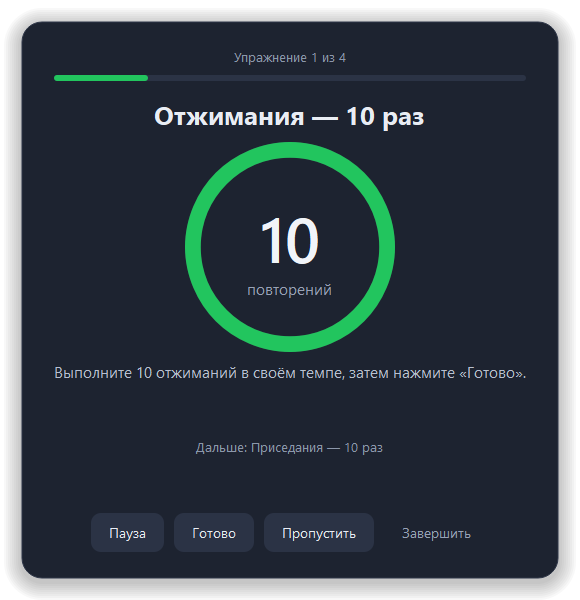
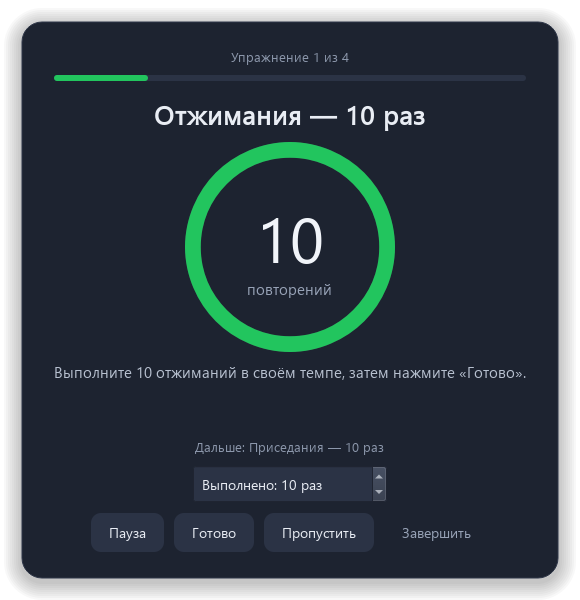
Website for Razminka 1.2.8

diff --git a/docs/index.html b/docs/index.html
@@ -1,77 +1,27 @@
-<!doctype html>
+<!doctype html>
 <html lang="ru">
 <head>
-  <meta charset="utf-8">
-  <meta name="viewport" content="width=device-width, initial-scale=1">
-  <meta name="description" content="Разминка — бесплатные напоминания о движении для Windows. Упражнения по таймеру и повторениям, свои тренировки, переносимая версия и автообновления.">
-  <meta name="theme-color" content="#eaf2fb">
-  <title>Разминка — пора встать из-за стола</title>
-  <link rel="icon" href="assets/icon.png">
-  <link rel="stylesheet" href="style.css">
-  <script src="app.js" defer></script>
+<meta charset="utf-8"><meta name="viewport" content="width=device-width,initial-scale=1">
+<meta name="description" content="Разминка напоминает отойти от компьютера. Выбирайте упражнения, создавайте свои тренировки и смотрите результаты. Бесплатно для Windows.">
+<meta name="theme-color" content="#eef4f2"><title>Разминка — сделайте небольшой перерыв</title>
+<link rel="icon" href="assets/icon.png"><link rel="stylesheet" href="style.css"><script src="app.js" defer></script>
 </head>
 <body>
 <a class="skip" href="#main">Перейти к содержимому</a>
-<header class="wrap">
-  <a class="brand" href="#"><img src="assets/icon.png" width="38" height="38" alt="">Разминка</a>
-  <nav aria-label="Главное меню"><a href="#features">Возможности</a><a href="#screens">Скриншоты</a><a href="#download">Скачать</a></nav>
-</header>
+<header class="wrap"><a class="brand" href="#"><img src="assets/icon.png" width="40" height="40" alt="">Разминка</a><nav aria-label="Главное меню"><a href="#workouts">Тренировки</a><a href="#history">История</a><a href="#download">Скачать</a></nav></header>
 <main id="main">
-  <section class="hero wrap">
-    <div class="intro">
-      <p class="availability">Бесплатное приложение для Windows</p>
-      <h1>Засиделись?<br>Пора размяться.</h1>
-      <p class="lead">За работой легко не заметить, как прошёл час. Разминка напомнит сделать перерыв и покажет упражнения — вам останется встать из-за стола и начать.</p>
-      <a class="button primary" href="#download">Скачать для Windows</a>
-      <p class="quiet">Бесплатно. Без регистрации. Есть версия без установки.</p>
-    </div>
-    <figure class="hero-shot">
-      <img src="assets/reminder.png" width="580" height="600" alt="Напоминание «Пора размяться» с кнопками начала, отсрочки и пропуска">
-      <figcaption>Если сейчас неудобно, напоминание можно отложить.</figcaption>
-    </figure>
-  </section>
-  <div class="rhythm"><div class="wrap"><span>Поработать</span><i aria-hidden="true"></i><span>Размяться</span><i aria-hidden="true"></i><span>Продолжить</span></div></div>
-  <section id="features" class="wrap features">
-    <h2>Как работает<br>Разминка</h2>
-    <div class="feature-list">
-      <article><h3>Учитывает время за компьютером</h3><p>Если вы надолго отошли, заблокировали экран или отправили компьютер в сон, программа начинает отсчёт заново.</p></article>
-      <article><h3>Перерыв можно отложить</h3><p>Вы сами решаете, когда начать. Можно отложить напоминание, пропустить разминку или поставить паузу на час. Во время полноэкранной игры или презентации программа подождёт.</p></article>
-      <article><h3>Таймер или повторения</h3><p>Для упражнений на время есть круговой таймер и звуковые сигналы. Для повторений — количество раз и кнопка «Готово». Звук можно отключить.</p></article>
-      <article><h3>Можно добавить свои упражнения</h3><p>Тренировки хранятся отдельными JSON-файлами. Добавьте свой набор упражнений и выберите его в настройках. Программа запомнит выбор и будет использовать его при следующих напоминаниях.</p></article>
-    </div>
-  </section>
-  <section class="training">
-    <div class="wrap training-layout">
-      <div><h2>Отжимания<br>и приседания</h2><p>В комплекте есть тренировка с двумя подходами: сначала по 10 повторений, затем по 15. Между упражнениями — 10 секунд, чтобы приготовиться.</p><p>Здесь не нужно успевать за таймером. Закончили подход — нажмите «Готово» и переходите к следующему упражнению.</p></div>
-      <ol class="sets"><li><span>Отжимания</span><strong>10</strong></li><li><span>Приседания</span><strong>10</strong></li><li><span>Отжимания</span><strong>15</strong></li><li><span>Приседания</span><strong>15</strong></li></ol>
-    </div>
-  </section>
-  <section id="screens" class="wrap screens">
-    <div class="section-heading"><h2>Вот как выглядит программа</h2><p>Нажмите на скриншот, чтобы открыть его в полном размере.</p></div>
-    <div class="gallery">
-      <figure><button class="screenshot" aria-label="Увеличить экран упражнения"><img src="assets/exercise.png" width="580" height="600" loading="lazy" alt="Ходьба на месте: круговой таймер и подсказка к упражнению"></button><figcaption>Упражнения по таймеру</figcaption></figure>
-      <figure><button class="screenshot" aria-label="Увеличить экран повторений"><img src="assets/repetitions.png" width="580" height="600" loading="lazy" alt="Отжимания: 10 повторений и кнопка «Готово»"></button><figcaption>Повторения в своём темпе</figcaption></figure>
-      <figure><button class="screenshot" aria-label="Увеличить настройки"><img src="assets/settings.png" width="580" height="540" loading="lazy" alt="Настройки интервалов, выбор тренировки, автообновление и поддержка автора"></button><figcaption>Расписание и выбор тренировки</figcaption></figure>
-    </div>
-  </section>
-  <section id="download" class="download">
-    <div class="wrap"><h2>Скачать Разминку</h2><p>Windows 10 / 11, 64 бита. Все необходимые библиотеки уже в комплекте.</p>
-      <div class="downloads">
-        <article><h3>Установить</h3><p>Скачайте установщик и запустите его. Программа появится в меню «Пуск». Автозагрузку можно включить по желанию; права администратора не нужны.</p><a id="setup-link" class="button primary" href="https://github.com/neonvalve/razminka/releases/latest">Скачать установщик</a></article>
-        <article><h3>Запустить без установки</h3><p>Распакуйте всю папку из ZIP и запустите Razminka.exe. Настройки будут храниться рядом с программой.</p><a id="portable-link" class="button" href="https://github.com/neonvalve/razminka/releases/latest">Скачать переносимую версию</a></article>
-      </div>
-      <p class="release-info"><span id="version">Актуальная версия — на GitHub Releases.</span> <a href="https://github.com/neonvalve/razminka/releases">Все выпуски и контрольные суммы</a></p>
-    </div>
-  </section>
-  <section class="wrap faq"><h2>Частые вопросы</h2>
-    <details><summary>Как выбрать постоянную тренировку?</summary><p>Откройте значок в трее → «Настройки…» → «Тренировка». Выберите программу и сохраните. Именно она появится при следующем напоминании, в том числе после перезапуска.</p></details>
-    <details><summary>Можно добавить свои упражнения?</summary><p>Да. В настройках откройте «Папка тренировок», скопируйте один из JSON-файлов под новым именем и измените упражнения. Поле seconds задаёт время, repetitions — количество раз. Нажмите «Обновить» в настройках и выберите новый файл.</p></details>
-    <details><summary>Как работают обновления?</summary><p>Начиная с версии 1.2 приложение проверяет GitHub после запуска и раз в шесть часов, загружает новую версию и проверяет контрольную сумму. Установка — по вашему подтверждению через меню трея, с перезапуском. Можно отключить автоматическую проверку в настройках. С версий 1.0 и 1.1 нужно один раз обновиться вручную.</p></details>
-    <details><summary>Какие данные отправляются в сеть?</summary><p>Тренировки, счётчики и настройки остаются на вашем компьютере. Проверка и загрузка обновлений обращаются к GitHub. Сайт и кнопка поддержки открываются в браузере; приложение не обрабатывает платежи.</p></details>
-  </section>
-  <section class="coffee wrap"><div><h2>Угостить автора кофе</h2><p>Если Разминка оказалась полезной, можно поддержать её разработку. Это добровольно: все функции доступны бесплатно.</p></div><a class="button coffee-button" href="https://pay.cloudtips.ru/p/019480d0" target="_blank" rel="noopener noreferrer">Угостить автора кофе</a><small>Добровольная поддержка через CloudTips. Все функции доступны без оплаты.</small></section>
-</main>
-<footer class="wrap"><a class="brand" href="#">Разминка</a><span>Сделано neonvalve</span><a href="https://github.com/neonvalve/razminka/issues">Сообщить об ошибке</a><a href="https://github.com/neonvalve/razminka">GitHub</a></footer>
+<section class="hero wrap">
+<div class="intro"><p class="availability">Для тех, кто работает за компьютером</p><h1>Работа подождёт<br>пару минут.</h1><p class="lead">Иногда увлечёшься — и полдня пролетело сидя. Разминка напомнит встать из-за стола и поможет сделать несколько упражнений.</p><a class="button primary" href="#download">Скачать для Windows</a><p class="quiet">Бесплатно, без регистрации. Есть версия без установки.</p></div>
+<figure class="hero-shot"><img src="assets/reminder.png" width="580" height="600" alt="Окно Разминки предлагает начать упражнения, отложить напоминание или пропустить его"><figcaption>Не время? Отложите напоминание и закончите свои дела.</figcaption></figure>
+</section>
+<section class="routine wrap"><h2>Небольшой перерыв<br>в обычном рабочем дне.</h2><div class="routine-copy"><p>Программа живёт в трее, рядом с часами. Задайте, как часто напоминать о разминке и в какие часы вас можно беспокоить.</p><p>Если вы уже отошли от компьютера, отсчёт начнётся заново. Напоминания можно поставить на паузу, а тренировку — запустить в любой момент.</p></div></section>
+<section id="workouts" class="workouts"><div class="wrap split"><div class="section-copy"><h2>Ваши упражнения.<br>Ваш темп.</h2><p>Выберите короткую разминку или отжимания с приседаниями: по 10 раз, затем по 15. Программа запомнит выбранную тренировку.</p><p>Упражнения на время идут по таймеру. В подходах на повторения вы сами нажимаете «Готово». Сделали меньше или больше — поправьте количество перед завершением.</p><div class="sequence" aria-label="Порядок упражнений"><span>10 отжиманий</span><span>10 приседаний</span><span>15 отжиманий</span><span>15 приседаний</span></div></div><figure><button class="screenshot" aria-label="Увеличить экран упражнения на повторения"><img src="assets/repetitions.png" width="580" height="600" loading="lazy" alt="Отжимания: план 10 повторений, поле выполненного количества и кнопка Готово"></button><figcaption>Можно сделать паузу или пропустить упражнение.</figcaption></figure></div></section>
+<section class="editor wrap"><div class="section-heading"><h2>Соберите свою тренировку.</h2><p>Откройте настройки и нажмите «Новая тренировка». Добавьте упражнения, укажите время или повторения, расставьте их в удобном порядке. Подсказки и отдых между упражнениями тоже настраиваются.</p></div><figure class="wide-shot"><button class="screenshot" aria-label="Увеличить редактор тренировок"><img src="assets/editor.png" width="820" height="500" loading="lazy" alt="Редактор: названия упражнений, подсказки, выбор времени или повторений, кнопки добавления и перестановки"></button><figcaption>Всё редактируется в приложении. Разбираться в файлах не нужно.</figcaption></figure></section>
+<section id="history" class="history"><div class="wrap"><div class="section-heading"><h2>Посмотрите,<br>что получилось.</h2><p>В истории остаются тренировки и упражнения: что выполнили, что пропустили, сколько повторений подтвердили и сколько времени занимались. Подготовка и паузы учитываются отдельно.</p></div><figure class="wide-shot"><button class="screenshot" aria-label="Увеличить историю тренировок"><img src="assets/history.png" width="1000" height="650" loading="lazy" alt="История с датами тренировок и подробностями каждого упражнения"></button><figcaption>Пример истории. Ваши записи хранятся только на вашем компьютере.</figcaption></figure><p class="history-note">История собирается с версии 1.2.8. Программа не измеряет движения: количество повторений вы подтверждаете сами.</p></div></section>
+<section class="settings wrap"><figure><button class="screenshot" aria-label="Увеличить настройки"><img src="assets/settings.png" width="600" height="650" loading="lazy" alt="Настройки: выбор и редактор тренировок, история, расписание и обновления"></button></figure><div class="section-copy"><h2>Настройте один раз.</h2><ul class="plain-list"><li><strong>Удобное расписание.</strong> Выберите интервал и часы напоминаний.</li><li><strong>Без лишнего звука.</strong> Отключите сигналы, если они мешают.</li><li><strong>Автозапуск по желанию.</strong> Разминка может запускаться вместе с Windows.</li><li><strong>Обновления внутри приложения.</strong> Новая версия загрузится автоматически, а установить её можно в удобный момент.</li></ul></div></section>
+<section id="download" class="download"><div class="wrap"><h2>Попробуйте в следующий<br>рабочий день.</h2><p>Windows 10 или 11, 64 бита. Дополнительно устанавливать библиотеки не нужно.</p><div class="downloads"><article><h3>Обычная установка</h3><p>Запустите установщик. Разминка появится в меню «Пуск». Права администратора не нужны.</p><a id="setup-link" class="button primary" href="https://github.com/neonvalve/razminka/releases/latest">Скачать установщик</a></article><article><h3>Без установки</h3><p>Распакуйте всю папку из архива и откройте Razminka.exe. Настройки и история останутся рядом с программой.</p><a id="portable-link" class="button" href="https://github.com/neonvalve/razminka/releases/latest">Скачать ZIP</a></article></div><p class="release-info"><span id="version">Последняя версия доступна на GitHub.</span> <a href="https://github.com/neonvalve/razminka/releases">Что изменилось в выпусках</a></p></div></section>
+<section class="faq wrap"><h2>Если остались вопросы</h2><details><summary>Где искать программу после запуска?</summary><p>Рядом с часами Windows. Если значка не видно, откройте скрытые значки стрелкой. Нажмите на значок Разминки — появится меню с запуском тренировки, настройками и историей.</p></details><details><summary>Как выбрать тренировку для всех следующих напоминаний?</summary><p>В меню трея откройте «Тренировка» и выберите нужную — изменение применяется сразу. Или выберите её в настройках и нажмите «Сохранить». Уже начатая тренировка останется прежней.</p></details><details><summary>Что будет с моими тренировками после обновления?</summary><p>Обновление сохраняет ваши упражнения, настройки и историю. Новая версия устанавливается после подтверждения и перезапускает приложение. Проверить обновления вручную можно в трее или в окне «О программе».</p></details><details><summary>Нужен ли интернет?</summary><p>Для тренировок и просмотра истории — нет. Интернет нужен для проверки и загрузки обновлений. Данные тренировок никуда не отправляются.</p></details><details><summary>Можно пользоваться бесплатно?</summary><p>Да, все функции доступны бесплатно. Подписки и регистрации нет. Поддержать автора можно по желанию.</p></details></section>
+<section class="coffee wrap"><div><h2>Разминка пригодилась?</h2><p>Меня зовут Антон Тепляков. Если хотите сказать спасибо и поддержать дальнейшую разработку — можно угостить меня кофе.</p><a href="https://t.me/ElementJS">Написать автору в Telegram</a></div><a class="button" href="https://pay.cloudtips.ru/p/019480d0" target="_blank" rel="noopener noreferrer">Угостить кофе</a></section>
+</main><footer class="wrap"><a class="brand" href="#">Разминка</a><span>Антон Тепляков</span><a href="https://github.com/neonvalve/razminka/issues">Сообщить об ошибке</a><a href="https://github.com/neonvalve/razminka">GitHub</a></footer>
 <dialog id="lightbox"><button id="close-lightbox" autofocus>Закрыть</button><img src="assets/reminder.png" alt=""></dialog>
-</body>
-</html>
+</body></html>

diff --git a/docs/style.css b/docs/style.css
@@ -1,5 +1,5 @@
-:root{--ink:#17354e;--blue:#245d9b;--sky:#eaf2fb;--paper:#fff;--muted:#4d6378;--line:#c7d8e8;--coffee:#87401c;--green:#22c55e;font-family:"Segoe UI",sans-serif;color:var(--ink);background:var(--paper);font-size:17px;line-height:1.65}
-*{box-sizing:border-box}html{scroll-behavior:smooth;scroll-padding-top:24px}body{margin:0}a{color:var(--blue);text-underline-offset:4px}button,a{-webkit-tap-highlight-color:transparent}a:focus-visible,button:focus-visible,summary:focus-visible{outline:3px solid var(--coffee);outline-offset:5px}.wrap{width:min(1160px,calc(100% - 64px));margin:auto}header{display:flex;align-items:center;justify-content:space-between;padding:28px 0;gap:24px}.brand{display:inline-flex;align-items:center;gap:12px;text-decoration:none;font-size:23px;font-weight:750;color:var(--ink)}nav{display:flex;gap:28px}nav a{text-decoration:none;font-size:15px}h1,h2,h3,p,figure{margin:0}h1,h2{font-family:"Trebuchet MS","Segoe UI",sans-serif;font-weight:700;letter-spacing:-.045em;line-height:1.08}h1{font-size:clamp(44px,5.4vw,72px)}h2{font-size:clamp(34px,4vw,49px)}h3{font-size:23px;line-height:1.25;letter-spacing:-.02em}p{max-width:65ch}.hero{display:grid;grid-template-columns:1.1fr 1fr;gap:44px;align-items:center;padding:54px 0 76px}.availability{font-size:15px;margin-bottom:22px;color:var(--muted)}.lead{font-size:20px;line-height:1.65;margin:26px 0 30px;max-width:44ch}.quiet{font-size:14px;color:var(--muted);margin-top:14px}.button{display:inline-flex;align-items:center;justify-content:center;padding:14px 22px;border:1px solid var(--blue);border-radius:9px;text-decoration:none;font-weight:650;text-align:center;font-size:16px;transition:background .15s}.button:hover{background:#dceafa}.primary{background:var(--blue);color:white}.primary:hover{background:#184b82}.hero-shot{padding:18px;border-radius:46% 46% 24px 24px;background:var(--sky);position:relative}.hero-shot img{display:block;width:100%;height:auto}.hero-shot figcaption{font-size:13px;text-align:center;color:var(--muted);padding:8px 12px 15px}.rhythm{background:var(--ink);color:white;padding:25px 0}.rhythm .wrap{display:flex;align-items:center;justify-content:space-between;gap:36px;font-size:21px}.rhythm i{height:1px;background:#7892a9;flex:1;position:relative}.rhythm i:after{content:"";position:absolute;right:0;top:-3px;width:7px;height:7px;border-radius:50%;background:var(--green)}.features{display:grid;grid-template-columns:.85fr 1.15fr;gap:70px;padding:110px 0}.feature-list{display:grid;grid-template-columns:1fr 1fr;gap:42px 32px}.feature-list p{font-size:16px;color:var(--muted);margin-top:12px}.training{background:var(--sky);padding:75px 0}.training-layout{display:grid;grid-template-columns:1fr 1fr;gap:100px;align-items:center}.training p{margin-top:24px;max-width:48ch}.sets{list-style:none;margin:0;padding:0}.sets li{display:flex;justify-content:space-between;align-items:center;border-bottom:1px solid #a5bfd8;padding:8px 0;font-size:23px}.sets strong{font-family:"Trebuchet MS",sans-serif;font-size:54px;font-weight:400;line-height:1.4}.screens{padding:100px 0}.section-heading{display:flex;align-items:end;gap:40px;justify-content:space-between;margin-bottom:40px}.section-heading p{max-width:32ch;color:var(--muted);font-size:15px}.gallery{display:grid;grid-template-columns:repeat(3,1fr);gap:24px;align-items:start}.screenshot{width:100%;border:0;padding:0;background:#eaf2fb;border-radius:16px;cursor:zoom-in;overflow:hidden}.screenshot img{display:block;width:100%;height:auto}.gallery figure:last-child .screenshot{padding:12px}.gallery figcaption{font-size:15px;margin-top:12px}.download{padding:80px 0;background:#f0f5fa}.download h2+p{margin-top:20px}.downloads{display:grid;grid-template-columns:1fr 1fr;gap:70px;margin:40px 0 28px}.downloads article{display:flex;flex-direction:column;align-items:start}.downloads p{margin:16px 0 24px;max-width:47ch;flex:1}.release-info{color:var(--muted);font-size:14px}.faq{padding:90px 0}.faq h2{margin-bottom:32px}.faq details{border-bottom:1px solid var(--line);padding:20px 0;max-width:850px}.faq summary{cursor:pointer;font-size:20px;font-weight:600}.faq details p{padding-top:16px;color:var(--muted)}.coffee{border-top:2px solid var(--coffee);padding:40px 0 60px;display:grid;grid-template-columns:1fr auto;align-items:center;gap:25px 55px}.coffee h2{font-size:38px}.coffee p{margin-top:18px;max-width:55ch}.coffee-button{background:var(--coffee);border-color:var(--coffee);color:white}.coffee-button:hover{background:#693012}.coffee small{grid-column:1/-1;color:var(--muted)}footer{padding:24px 0 40px;display:flex;gap:24px;align-items:center;flex-wrap:wrap;border-top:1px solid var(--line);font-size:14px}footer span{margin-right:auto}.skip{position:absolute;top:-100px;background:white;padding:12px;z-index:10}.skip:focus{top:0}dialog{border:0;border-radius:15px;padding:16px;max-width:95vw;max-height:95vh;background:#f0f5fa}dialog::backdrop{background:#17354edd}dialog img{display:block;max-width:85vw;max-height:80vh;object-fit:contain;margin:auto}dialog button{display:block;margin:0 0 12px auto;border:1px solid var(--ink);background:white;border-radius:5px;padding:8px 18px;cursor:pointer;color:var(--ink)}
-@media(max-width:850px){.wrap{width:calc(100% - 40px)}.hero{gap:20px;grid-template-columns:1fr 1fr}.lead{font-size:17px}.features{grid-template-columns:1fr;gap:40px;padding:65px 0}.training-layout{gap:40px}.section-heading{display:block}.section-heading p{margin-top:16px;max-width:none}.gallery{gap:12px}.downloads{gap:30px}.coffee{grid-template-columns:1fr}.coffee-button{justify-self:start}nav{gap:16px}}
-@media(max-width:580px){header{flex-wrap:wrap;padding:20px 0}nav{width:100%;justify-content:space-between}.hero{grid-template-columns:1fr;padding:30px 0 45px}.hero-shot{max-width:420px;margin:20px auto 0}.hero .lead{max-width:42ch}.rhythm .wrap{gap:12px;font-size:14px}.feature-list{grid-template-columns:1fr;gap:28px}.training-layout{grid-template-columns:1fr}.training{padding:50px 0}.sets li{font-size:20px}.sets strong{font-size:44px}.gallery{grid-template-columns:1fr;gap:32px}.gallery figure{max-width:420px;margin:auto}.screens,.faq{padding:60px 0}.downloads{grid-template-columns:1fr;gap:40px}.download{padding:55px 0}.coffee h2{font-size:32px}footer{gap:16px}footer .brand{width:100%}}
-@media(prefers-reduced-motion:reduce){html{scroll-behavior:auto}.button{transition:none}}
+:root{--ink:#203c38;--muted:#536e68;--green:#216954;--paper:#fff;--wash:#eef4f2;--line:#cbdad5;font:17px/1.65 "Segoe UI",Arial,sans-serif;color:var(--ink);background:var(--paper)}
+*{box-sizing:border-box}body{margin:0}html{scroll-behavior:smooth;scroll-padding-top:32px}a{color:var(--green);text-underline-offset:4px}button{font:inherit}a:focus-visible,button:focus-visible,summary:focus-visible{outline:3px solid #a95826;outline-offset:5px}.wrap{width:min(1140px,calc(100% - 64px));margin:auto}header{display:flex;align-items:center;justify-content:space-between;gap:24px;padding:26px 0}.brand{display:inline-flex;align-items:center;gap:12px;color:var(--ink);font-weight:700;font-size:24px;text-decoration:none}nav{display:flex;gap:30px}nav a{font-size:15px;text-decoration:none}h1,h2,h3,p,figure{margin:0}h1,h2{font-family:"Trebuchet MS","Segoe UI",sans-serif;letter-spacing:-.045em;line-height:1.1;font-weight:700}h1{font-size:clamp(44px,5.5vw,74px)}h2{font-size:clamp(32px,3.7vw,49px)}h3{font-size:24px;line-height:1.3}p{max-width:62ch}.hero{display:grid;grid-template-columns:1.12fr 1fr;align-items:center;gap:36px;padding:40px 0 75px}.availability{color:var(--muted);margin-bottom:22px;font-size:15px}.lead{font-size:21px;line-height:1.65;margin:26px 0 30px}.quiet{font-size:14px;color:var(--muted);margin-top:15px}.button{display:inline-flex;align-items:center;justify-content:center;border:1px solid var(--green);border-radius:8px;padding:14px 22px;font-size:16px;font-weight:650;text-align:center;text-decoration:none;min-height:50px}.button:hover{background:#e0ece6}.primary{background:var(--green);color:white}.primary:hover{background:#174d3d}.hero-shot{background:var(--wash);border-radius:130px 130px 24px 24px;padding:12px 8px 20px}.hero-shot img{width:100%;height:auto;display:block}figcaption{font-size:14px;color:var(--muted);text-align:center;padding:12px 18px 0}.routine{display:grid;grid-template-columns:1fr 1fr;gap:80px;padding:66px 0 90px;border-top:1px solid var(--line)}.routine-copy p+p,.section-copy p+p{margin-top:18px}.section-copy h2{margin-bottom:26px}.split{display:grid;grid-template-columns:1fr .9fr;gap:80px;align-items:center}.workouts{background:var(--wash);padding:65px 0}.screenshot{padding:0;border:0;background:transparent;display:block;width:100%;cursor:zoom-in}.screenshot img{display:block;width:100%;height:auto;max-width:100%;object-fit:contain}.sequence{display:grid;grid-template-columns:1fr 1fr;gap:0 20px;margin-top:30px;font-weight:600}.sequence span{padding:12px 0;border-top:1px solid #bdcec7}.editor{padding:100px 0}.section-heading{display:grid;grid-template-columns:1fr 1fr;gap:60px;align-items:start;margin-bottom:40px}.wide-shot{max-width:1000px;margin:auto}.wide-shot .screenshot{background:white;border-radius:10px;overflow:hidden;border:1px solid var(--line);box-shadow:0 16px 40px #203c3812}.history{padding:85px 0;background:#edf2f8}.history-note{font-size:14px;color:var(--muted);margin:24px auto 0;text-align:center}.settings{display:grid;grid-template-columns:1fr 1fr;gap:90px;align-items:center;padding:100px 0}.settings figure{max-width:540px}.settings img{border:1px solid var(--line);border-radius:8px}.plain-list{list-style:none;margin:0;padding:0}.plain-list li{padding:18px 0;border-bottom:1px solid var(--line)}.plain-list strong{display:block}.download{background:var(--wash);padding:80px 0}.download h2{margin-bottom:22px}.downloads{display:grid;grid-template-columns:1fr 1fr;gap:75px;margin:40px 0 32px}.downloads article{padding-top:25px;border-top:1px solid #b9cdc3}.downloads p{margin:14px 0 24px;max-width:46ch}.release-info{font-size:14px;color:var(--muted)}.release-info a{margin-left:10px}.faq{padding:90px 0}.faq h2{margin-bottom:30px}.faq details{border-bottom:1px solid var(--line);padding:20px 0}.faq summary{font-size:20px;cursor:pointer;font-weight:600}.faq details p{margin-top:16px;max-width:80ch}.coffee{display:grid;grid-template-columns:1fr auto;gap:55px;align-items:center;border-top:1px solid var(--line);padding:55px 0 70px}.coffee h2{font-size:36px;margin-bottom:20px}.coffee p{margin-bottom:16px;max-width:57ch}footer{display:flex;align-items:center;flex-wrap:wrap;gap:30px;padding:25px 0 40px!important;border-top:1px solid var(--line);font-size:14px}footer .brand{margin-right:auto}.skip{position:absolute;top:-100px;left:10px;background:white;padding:12px;z-index:10}.skip:focus{top:10px}dialog{border:0;border-radius:12px;padding:16px;max-width:95vw;max-height:95vh;background:#f4f7f6}dialog::backdrop{background:#102923db}dialog img{display:block;max-width:88vw;max-height:80vh;object-fit:contain;margin:auto}dialog button{display:block;margin:0 0 12px auto;padding:8px 18px;background:white;border:1px solid var(--green);border-radius:5px;cursor:pointer;color:var(--ink)}
+@media(max-width:850px){.wrap{width:calc(100% - 40px)}.hero{gap:12px}.lead{font-size:18px}.split,.settings{gap:35px}.routine,.section-heading{gap:30px}.downloads{gap:35px}.coffee{gap:30px}nav{gap:18px}.settings{padding:70px 0}}
+@media(max-width:600px){header{flex-wrap:wrap;gap:20px}nav{width:100%;justify-content:space-between}.hero{grid-template-columns:1fr;padding:25px 0 45px;gap:30px}.hero-shot{max-width:430px;margin:auto}.routine,.split,.section-heading,.settings,.downloads,.coffee{grid-template-columns:1fr}.routine{padding:45px 0}.workouts{padding:45px 0}.split{gap:25px}.editor,.faq{padding:60px 0}.history,.download{padding:55px 0}.section-heading{gap:22px;margin-bottom:30px}.settings{gap:35px}.settings figure{order:2}.downloads{gap:25px}.coffee{padding:40px 0}.coffee .button{justify-self:start}.release-info a{display:block;margin:10px 0 0}footer .brand{width:100%}.wide-shot figcaption{padding-inline:0}h1{font-size:46px}}
+@media(prefers-reduced-motion:reduce){html{scroll-behavior:auto}}

diff --git a/README.md b/README.md
@@ -4,12 +4,16 @@
 
 Вы задаёте интервал, часы напоминаний и выбираете тренировку. Когда приходит время, программа предлагает встать из-за стола. Напоминание можно отложить или пропустить. Если вы надолго отошли, заблокировали экран или отправили компьютер в сон, отсчёт начинается заново.
 
-Упражнения бывают по таймеру и на количество повторений. В комплекте есть короткая разминка и чередование отжиманий с приседаниями: сначала по 10 раз, затем по 15. Свои тренировки можно добавить отдельными JSON-файлами.
+Упражнения бывают по таймеру и на количество повторений. В комплекте есть короткая разминка и чередование отжиманий с приседаниями: сначала по 10 раз, затем по 15. Свои тренировки можно собрать прямо в настройках: добавить упражнения, выбрать время или повторения, изменить порядок и отдых. Формат файлов знать не нужно.
 
 - [Скачать последнюю версию](https://github.com/neonvalve/razminka/releases/latest)
 - [Сайт и скриншоты](https://neonvalve.github.io/razminka/)
 - [Сообщить об ошибке](https://github.com/neonvalve/razminka/issues)
 - [Угостить автора кофе](https://pay.cloudtips.ru/p/019480d0)
+
+## История тренировок
+
+В меню трея и настройках есть история. Она хранит дату, результат и упражнения каждой тренировки, план и подтверждённые повторения, время работы, подготовки и пауз. Перед кнопкой «Готово» можно изменить фактически выполненное количество. Все записи остаются на компьютере и сохраняются при обновлении. История начинается с версии 1.2.8.
 
 ## Как установить
 
